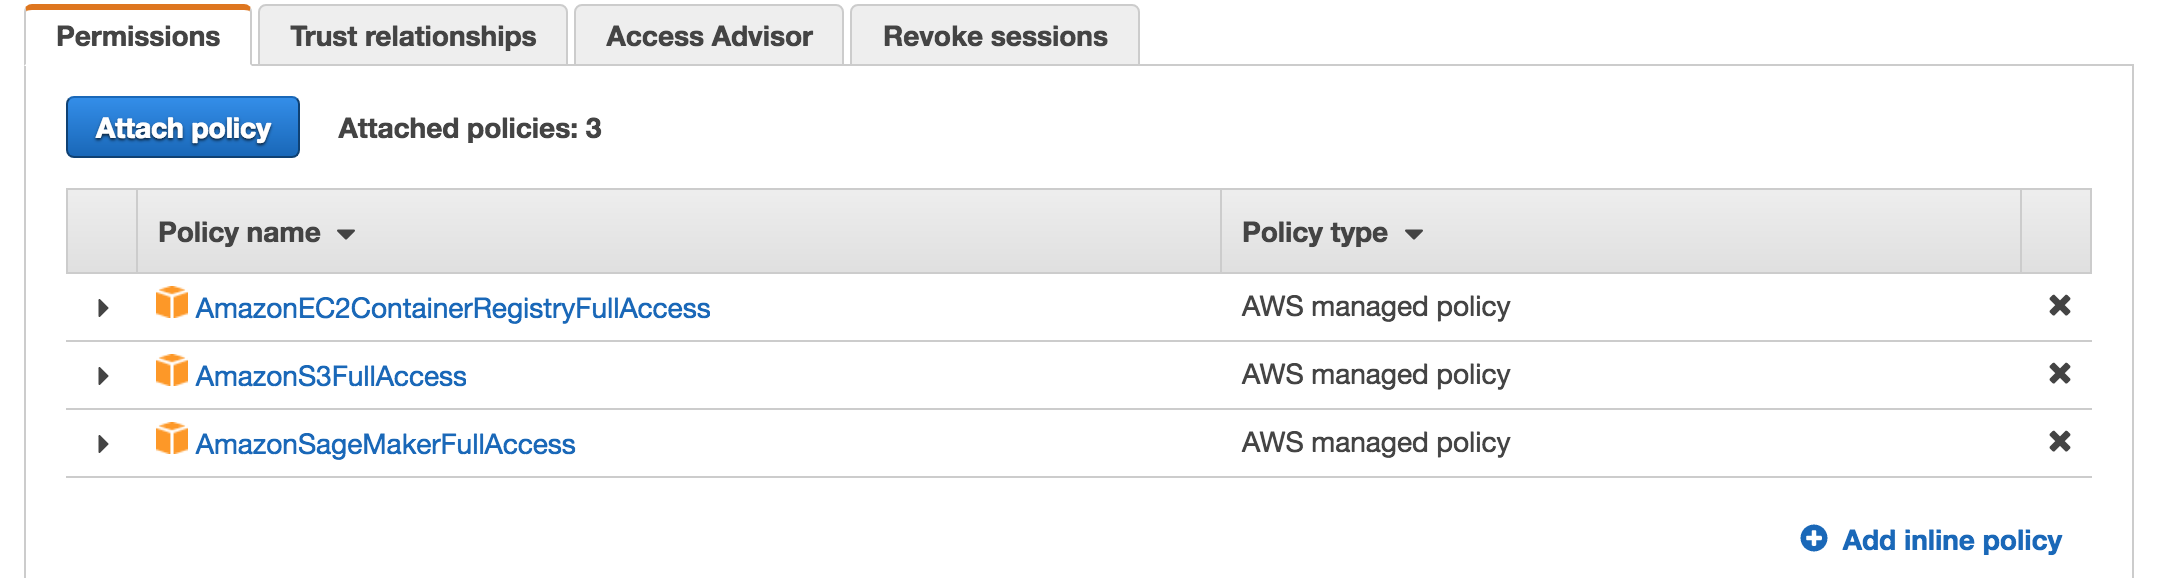
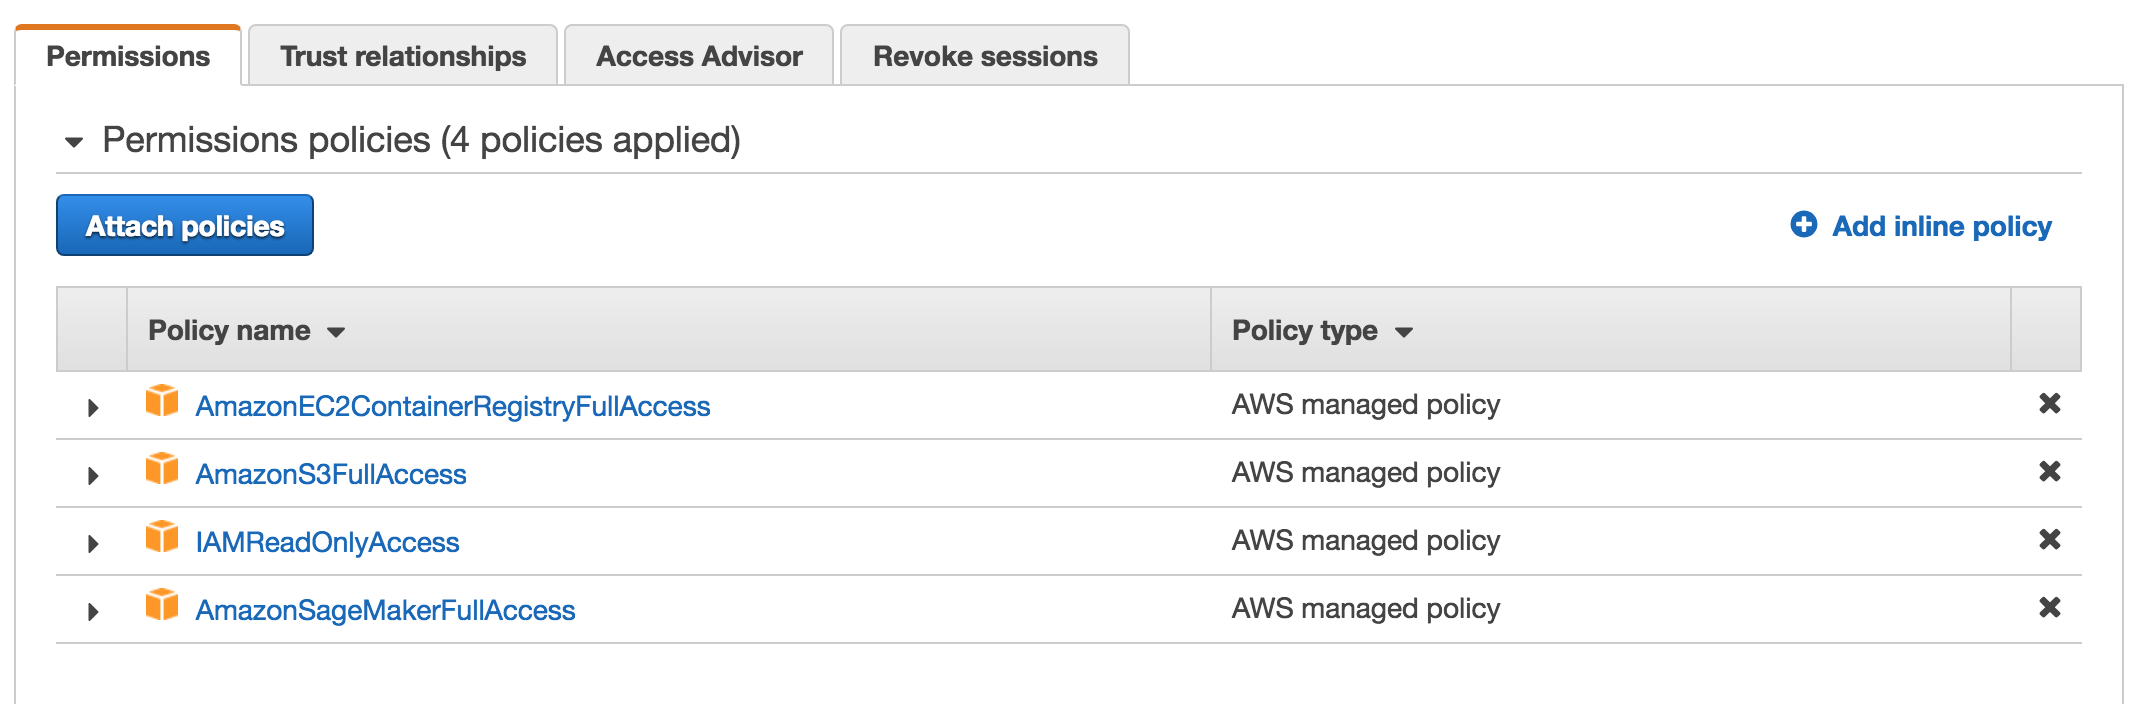
Update README for AWS policies

Changed region(s): [[0.0, 0.1557, 0.9991, 0.9654], [0.0, 0.0, 0.9991, 0.1246]]

diff --git a/docs/index.md b/docs/index.md
@@ -216,7 +216,7 @@ Voila! That's a proof that this Deep Learning model is going to be trained and d
 
 ![Attach Policy](attach_policy_step_1.png)
 
-- Do the same to attach the `AmazonS3FullAccess` policy, and end up with the following:
+- Do the same to attach the `AmazonS3FullAccess` and `IAMReadOnlyAccess` policies, and end up with the following:
 
 ![Policies](policies.png)
 
